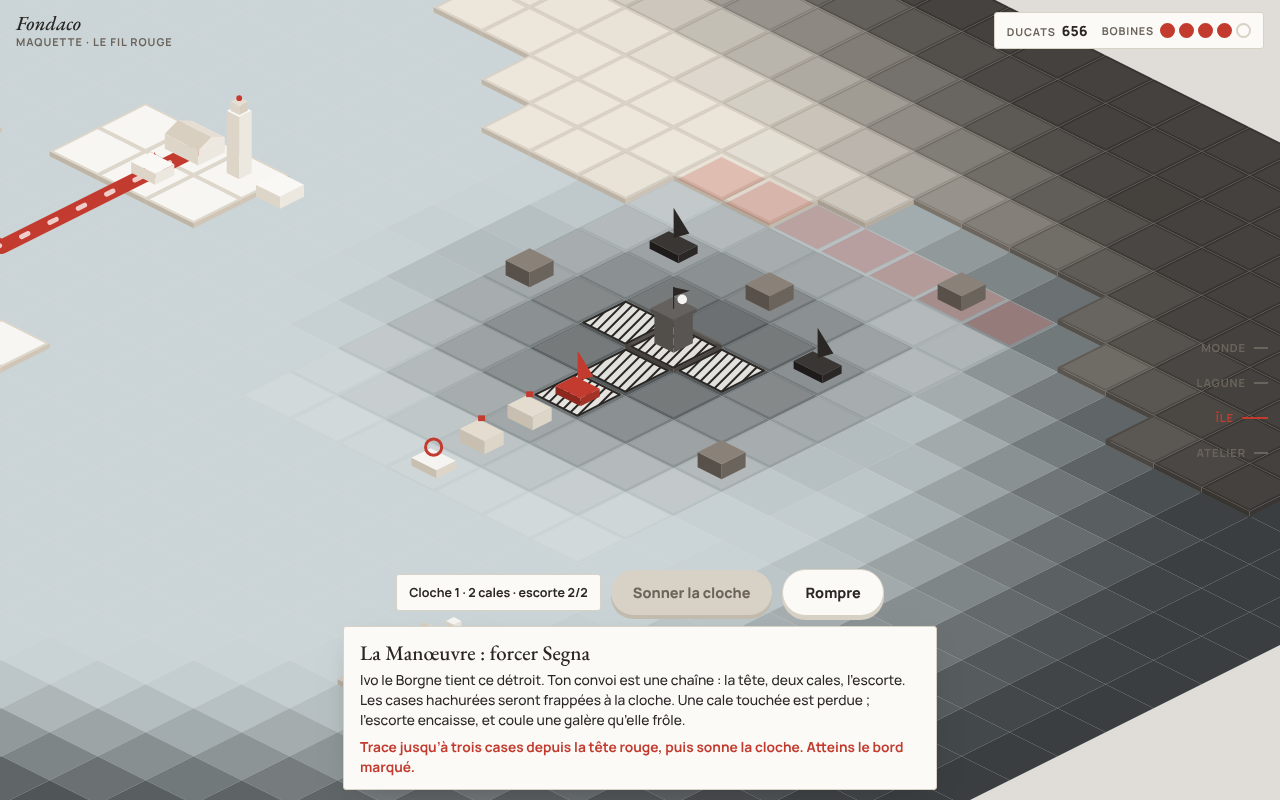
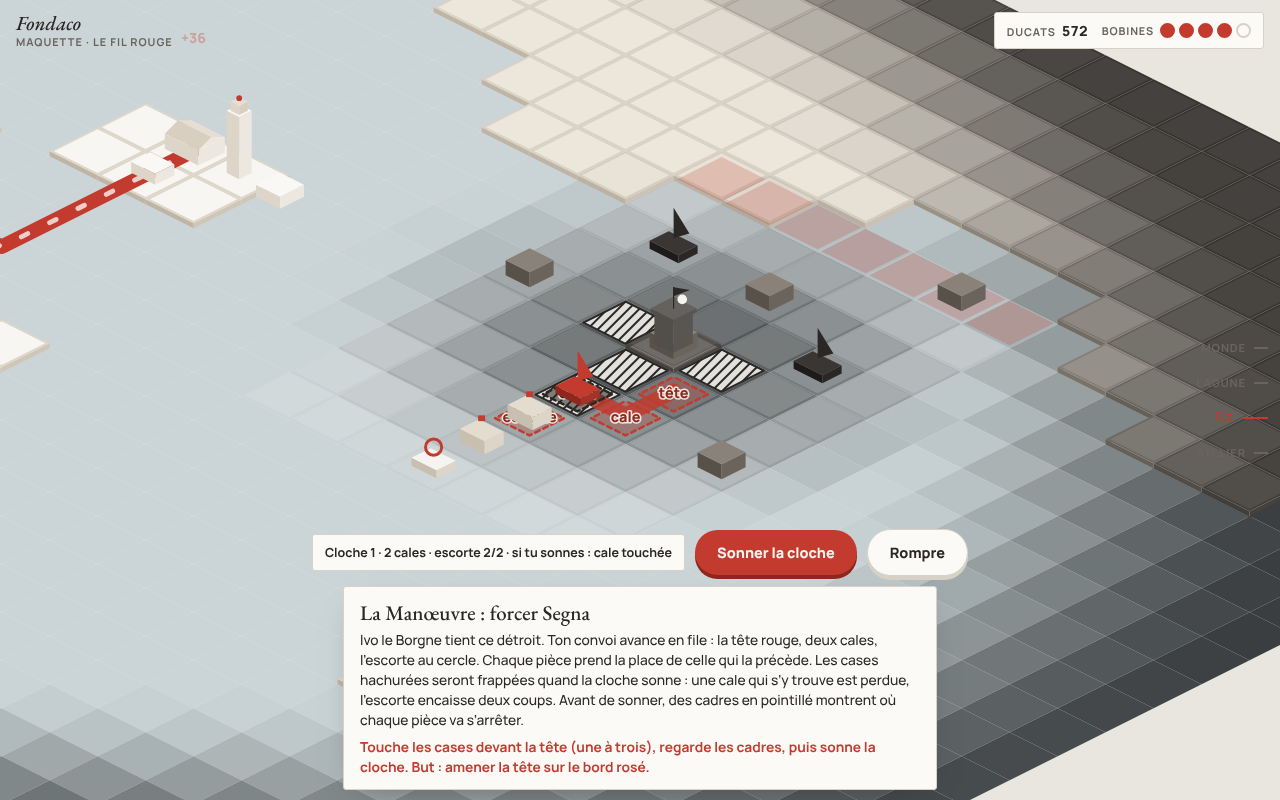
Cadrage v4 « le fil rouge » et Manœuvre plus lisible dans la maquette
Le porteur valide le principe, tuiles et bâtiments de Porcellana inchangés.
CADRAGE-v4 : règles d'or, la planche, l'île, le fil et les bobines, les
villes, les passages, la Manœuvre (déroulé, pièces, garde, armes égales),
la marée, l'économie, l'interface sans menu, le chemin, les questions.
Maquette : les cadres d'arrivée de chaque pièce et la prévision avant la
cloche. CLAUDE.md : renvoi vers le cadrage en cours de validation.

Claude-Session: https://claude.ai/code/session_01V9BC1DMhoyiSQbsad7Fm1o

Changed region(s): [[0.0, 0.0, 0.9688, 1.0], [0.375, 0.4062, 0.5625, 0.5625]]

diff --git a/docs/refonte-totale-2026-11-10/maquette.html b/docs/refonte-totale-2026-11-10/maquette.html
@@ -283,8 +283,8 @@ function startMan(pass){
   telegraph(); Object.assign(goal,{x:a+3.5,y:b+5.2,z:Math.min(vw/6.2,(vh-250)/3.6,96)}); markRuler();
   $('manbar').hidden=false; $('thread').hidden=true; manText();
   setCaption(pass.holder==='npc' ? 'La Manœuvre : forcer Segna' : 'La Manœuvre : forcer Chioggia',
-    (pass.holder==='npc' ? 'Ivo le Borgne tient ce détroit. ' : 'Ici, la garde a été disposée par un joueur, absent ce soir. C’est le même jeu. ') + 'Ton convoi est une chaîne : la tête, deux cales, l’escorte. Les cases hachurées seront frappées à la cloche. Une cale touchée est perdue ; l’escorte encaisse, et coule une galère qu’elle frôle.',
-    'Trace jusqu’à trois cases depuis la tête rouge, puis sonne la cloche. Atteins le bord marqué.');
+    (pass.holder==='npc' ? 'Ivo le Borgne tient ce détroit. ' : 'Ici, la garde a été disposée par un joueur, absent ce soir. C’est le même jeu. ') + 'Ton convoi avance en file : la tête rouge, deux cales, l’escorte au cercle. Chaque pièce prend la place de celle qui la précède. Les cases hachurées seront frappées quand la cloche sonne : une cale qui s’y trouve est perdue, l’escorte encaisse deux coups. Avant de sonner, des cadres en pointillé montrent où chaque pièce va s’arrêter.',
+    'Touche les cases devant la tête (une à trois), regarde les cadres, puis sonne la cloche. But : amener la tête sur le bord rosé.');
 }
 const mfree = (x,y) => x>=0&&y>=0&&x<GW&&y<GH && !man.rocks.has(x+','+y) && !man.gal.some(q=>q.alive&&q.x===x&&q.y===y);
 function telegraph(){
@@ -293,9 +293,13 @@ function telegraph(){
   if (man.gal[1].alive){ for(let d=-1;d<=1;d++) add(h.x+d,h.y-2); }
   man.strikes=s;
 }
+function landing(){ const L=man.path.length, old=man.pieces.map(p=>({x:p.x,y:p.y}));
+  return man.pieces.map((p,k)=>{ const q=k<L?man.path[L-1-k]:old[k-L]; return {p,q,hit:man.strikes.some(s=>s.x===q.x&&s.y===q.y)}; }); }
+const NAMES={tete:'tête',cale:'cale',escorte:'escorte'};
 function manText(){
   const c=man.pieces.filter(p=>p.t==='cale').length, e=man.pieces.find(p=>p.t==='escorte');
-  $('manstate').textContent=`Cloche ${man.round} · ${c} cale${c>1?'s':''} · escorte ${e?e.hp+'/2':'perdue'}`;
+  let f=''; if (man.phase==='plan' && man.path.length){ const h=landing().filter(o=>o.hit).map(o=>NAMES[o.p.t]); f=' · si tu sonnes : '+(h.length?h.join(' et ')+(h.length>1?' touchées':' touchée'):'rien de touché'); }
+  $('manstate').textContent=`Cloche ${man.round} · ${c} cale${c>1?'s':''} · escorte ${e?e.hp+'/2':'perdue'}`+f;
   $('bell').disabled = man.phase!=='plan' || !man.path.length;
 }
 function manTap(x,y){
@@ -462,6 +466,12 @@ function frame(t){
       g.strokeStyle='#2A2725'; g.lineWidth=2; g.beginPath(); g.moveTo(q[0][0],q[0][1]); q.slice(1).forEach(v=>g.lineTo(v[0],v[1])); g.closePath(); g.stroke(); }
     if (man.path.length){ const h=man.pieces[0]; g.beginPath(); const s0=iso(man.a+h.x+.5,man.b+h.y+.5); g.moveTo(s0[0],s0[1]); man.path.forEach(p=>{ const s=iso(man.a+p.x+.5,man.b+p.y+.5); g.lineTo(s[0],s[1]); }); g.strokeStyle=RED; g.lineWidth=cam.z*.16; g.lineJoin='round'; g.lineCap='round'; g.globalAlpha=.85; g.stroke(); g.globalAlpha=1; }
   }
+  if (man && man.phase==='plan' && man.path.length) for (const o of landing()){
+    const i=man.a+o.q.x, j=man.b+o.q.y, n=.14, q=[iso(i+n,j+n,-.06),iso(i+1-n,j+n,-.06),iso(i+1-n,j+1-n,-.06),iso(i+n,j+1-n,-.06)];
+    g.beginPath(); g.moveTo(q[0][0],q[0][1]); q.slice(1).forEach(v=>g.lineTo(v[0],v[1])); g.closePath();
+    g.fillStyle=o.hit?'rgba(42,39,37,.55)':'rgba(194,59,46,.28)'; g.fill(); g.strokeStyle=o.hit?'#2A2725':RED; g.lineWidth=2.5; g.setLineDash([5,4]); g.stroke(); g.setLineDash([]);
+    const c=iso(i+.5,j+.5,-.06), fs=Math.max(10,cam.z*.15); g.font=`800 ${fs}px Manrope,system-ui,sans-serif`; g.textAlign='center'; g.textBaseline='middle';
+    g.lineWidth=3; g.strokeStyle='rgba(246,244,240,.9)'; g.strokeText(NAMES[o.p.t]+(o.hit?' !':''),c[0],c[1]); g.fillStyle=o.hit?'#2A2725':'#8E281E'; g.fillText(NAMES[o.p.t]+(o.hit?' !':''),c[0],c[1]); }
   // threads
   for (const th of threads){ const me=th.owner==='me', age=(t-th.born)/700, bl=blocked(th);
     const upto = bl ? th.r.cum[th.r.vi] - .6 : (age<1&&me ? th.r.L*sm(age) : null);

diff --git a/docs/CADRAGE-v4.md b/docs/CADRAGE-v4.md
@@ -1,0 +1,297 @@
+# Fondaco — Document de cadrage (v4) : le fil rouge
+
+*Rédigé le 10 novembre 2026. Le porteur a validé le principe le même jour, sur la maquette (`docs/refonte-totale-2026-11-10/`, en ligne et privée : https://claude.ai/artifact/PwWx9caj5Zs9urBcChRopm) : « J'aime beaucoup le principe, à condition que les graphismes (tuiles et bâtiments) restent les mêmes qu'actuellement. […] je valide, continue le cadrage. »*
+
+*Ce cadrage est **à valider par le porteur** avant de faire foi. Validé, il remplacera la partie conception de CADRAGE-v3 ; les parties techniques (montants entiers, grand livre, moteur pur) restent. Tous les chiffres sont des **ordres de grandeur, à calibrer au simulateur** (§ 14). Les questions ouvertes sont au § 16.*
+
+## 1. Vision
+
+**Pitch.** Venise, 1450. Ta Maison a une île dans la lagune et quelques bobines de fil rouge. Tu tends tes fils vers les villes ; tes barques les suivent. Les autres Maisons visent les mêmes villes. Plus loin, la porcelaine vire à l'encre : là sont les corsaires, les détroits et les fortunes.
+
+**Ce que le jeu est.** Une seule planche partagée, un seul geste (tirer un fil), aucun mode. La gestion, l'affrontement contre le jeu et l'affrontement entre joueurs sont **des lieux de la même planche**.
+
+**Ce qui ne change pas.** Un jeu de niche à la profondeur lisible ; des adultes de 25 à 55 ans ; des sessions courtes sur téléphone, longues sur ordinateur ; un monde persistant où l'on ne perd jamais ce qu'on a bâti.
+
+## 2. Les règles d'or
+
+Elles remplacent les huit règles du 1er novembre. En cas de conflit, elles priment.
+
+1. **Une seule planche, aucun mode.** Rien ne se joue ailleurs que sur la planche. Aucun onglet n'ouvre un autre jeu.
+2. **Un seul geste : le fil.** Ce qui est rouge à l'écran, le joueur l'a tracé. Toute fonctionnalité nouvelle doit se faire avec le fil ou avec les pétales (§ 11), sinon elle n'entre pas.
+3. **Ton île t'appartient.** Personne ne prend ni ne détruit ce qui s'y trouve.
+4. **On te devance, on ne te vole pas.** Ce qui se dispute, ce sont les places de la planche commune (villes, passages). On ne risque que ce qu'on engage : une cargaison, une garde.
+5. **Tout coup est annoncé.** Dans une Manœuvre, on ne perd jamais sans avoir pu le voir venir.
+6. **À armes égales.** La force qu'on peut engager dans un passage est fixée par le passage, la même pour tous, jamais par la caisse. L'argent réel n'achète que de l'apparat.
+7. **Rien ne s'accumule sans fin.** Stocks, demande, bobines et passages tenus ont un plafond.
+8. **Court si tu veux, profond si tu restes.** Cinq minutes font une bonne visite, avec au moins une vraie décision.
+9. **Les graphismes sont ceux de Porcellana.** Les tuiles et les bâtiments restent ceux d'aujourd'hui (§ 12).
+
+## 3. La planche
+
+### 3.1 Un monde
+
+Un **monde** réunit de 60 à 120 Maisons (joueurs, et Maisons tenues par l'ordinateur pour qu'il soit toujours plein) sur une planche de cases carrées.
+
+| Zone | Matière | Contenu | Qui peut y agir |
+| --- | --- | --- | --- |
+| **La lagune** | Porcelaine blanche | L'île de chaque Maison, le Rialto, l'île de chaque compagnie | Chacun chez soi ; tout le monde se voit |
+| **Les terres disputées** | Biscuit | Une douzaine de villes ; les passages proches (bouches de lagune, ponts, cols) | Tous |
+| **Le Large** | La même porcelaine, teintée d'encre de plus en plus sombre | Six à huit ports lointains ; les passages durs (détroits) ; ce que la marée apporte | Tous, à leurs risques |
+
+**Le péril** d'une case va de 0 (blanc) à 1 (noir). Il règle la force des gardes, la valeur des marchandises et la part de cargaison risquée. Il se lit à la couleur : aucun chiffre n'est nécessaire.
+
+### 3.2 Les échelles
+
+Quatre crans de zoom, un mouvement continu : **l'atelier** (le toit s'ouvre), **l'île**, **la lagune**, **le monde**. On ne change jamais d'écran.
+
+## 4. L'île : la gestion
+
+C'est le domaine d'aujourd'hui, avec ses cases achetées une à une et ses bâtiments de porcelaine.
+
+- **Les cases** : une case a un terrain (rive, argile, forêt, pré, pierre). Une quarantaine au plus. Le prix monte à chaque achat.
+- **Les ateliers** : trois étages de chaîne (matière, ouvrage, bel ouvrage). Chaque atelier a une réserve ; pleine, il s'arrête sans rien perdre.
+- **Les voisinages** : deux ateliers d'une même chaîne côte à côte se renforcent ; certains se gênent (le four et les habitations). **Le gain d'une pose se voit avant de poser.** On peut déplacer un atelier, contre un temps de chantier.
+- **Le quai et l'entrepôt** : tout ce qui est produit y arrive, par les routes de l'île (elles restent dessinées comme aujourd'hui, et ne coûtent pas de bobine). Tous les fils en partent.
+- **La Maison** : le palais. Son niveau (une douzaine de paliers) donne les bobines, les places de convoi et les cases achetables. **Aucun chantier ne dure plus de 24 heures.**
+- **Le métier** (Arte), choisi vers le niveau 4 : verre, laine et soie, épices, bois et navires, banque. Il donne un avantage sur une chaîne et une pièce de convoi propre. Personne ne produit tout bien : c'est ce qui fait acheter aux autres.
+
+Les biens du Large (épices, soie grège, alun) entrent dans les recettes du troisième étage. **Une grande Maison a besoin du Large** ; elle peut y aller, ou acheter au Rialto à ceux qui y vont.
+
+## 5. Le fil
+
+### 5.1 La règle
+
+- Un **fil** part du quai et va à une destination : une ville, le Rialto, un port du Large, ou le quai d'une autre Maison.
+- Il a **un sens** : *vendre* (de ton entrepôt vers la destination) ou *acheter* (de la destination vers ton entrepôt).
+- Il porte **une marchandise**, choisie quand on le tend ; on en change d'un toucher.
+- Les barques (sur l'eau) et les mules (sur terre) le parcourent seules. Leur débit dépend de la longueur du fil et du niveau des barques.
+- Il s'arrête de lui-même si l'entrepôt est vide, plein, ou si la ville n'achète plus.
+
+### 5.2 Les bobines
+
+- Chaque fil prend **une bobine**. Trois au départ, une douzaine au sommet.
+- Chaque bobine a une **longueur** : les premières n'atteignent que les villes proches, les suivantes le Large.
+- Tendre un fil est gratuit et immédiat. **Le reprendre aussi.** Le coût, c'est de ne pas l'avoir ailleurs.
+
+### 5.3 Pourquoi on y revient
+
+Un fil bien placé ne le reste pas : la demande de la ville baisse à mesure qu'on la sert (§ 6), un rival arrive, un passage change de main, une nouvelle fait monter un prix. À chaque visite, la question est : **mes fils sont-ils encore au bon endroit ?**
+
+### 5.4 Le fil commun
+
+Un fil tendu vers le quai d'une autre Maison lui vend ou lui achète directement, au prix convenu entre les deux. C'est l'échange entre joueurs, sans écran de marché.
+
+## 6. Les villes et le Rialto
+
+- **Chaque ville demande deux ou trois marchandises.** Pour chacune, une jauge de demande, **commune à tout le monde**. Elle baisse à chaque livraison, de qui que ce soit, et remonte avec le temps. Le prix suit la jauge.
+- **Les fils des autres se voient** : à l'encre pour les rivaux, en céladon pour les associés. On sait qui sert quoi.
+- **Le premier fournisseur** d'une ville sur la semaine y plante son pavillon. Il gagne du renom et la primeur des nouvelles de cette ville. Pas de rendement en plus : on évite la boule de neige.
+- **Les nouvelles** déplacent la demande (une foire, une disette, un siège). Elles arrivent comme des perles sur le fil du pied (§ 11).
+- **Le Rialto** achète et vend tout, à un prix moins bon que les villes : c'est le filet de sécurité. On n'y est jamais bloqué.
+
+## 7. Les passages
+
+### 7.1 La règle
+
+- Un **passage** est une tour sur une case : une bouche de lagune, un pont, un col, un détroit. Les routes vers les villes riches et vers tous les ports du Large en traversent un ou plusieurs.
+- **Tout passage est tenu** : par un corsaire, par une puissance (Milan, Gênes, le Turc), par une Maison ou par une compagnie.
+- Celui qui le tient fixe un **péage**, plafonné (de l'ordre de 15 % de la valeur de la cargaison).
+- Devant un passage, un fil a deux états : **il paie**, ou **il est fermé** (les corsaires ne laissent passer personne tant qu'on ne les a pas forcés une fois).
+
+### 7.2 Forcer, puis tenir
+
+- **Forcer** un passage, c'est gagner une Manœuvre (§ 8) contre sa garde. On y engage un convoi et une cargaison prise dans son entrepôt.
+- **Gagné** : la cargaison passe et se vend au prix du Large ; tes fils traversent sans payer pendant 24 heures ; la tour perd **un sceau**.
+- **Perdu** : la cargaison engagée est perdue (la moitié va à celui qui tient la tour). Rien d'autre.
+- Une tour a **trois sceaux**. Ils se refont, un par jour. Au troisième sceau brisé, la tour passe à la Maison (ou à la compagnie) qui en a brisé le plus.
+- Une tour prise est à l'abri douze heures.
+
+### 7.3 Tenir
+
+- Celui qui tient une tour **dispose sa garde** (§ 8.5) et **règle son péage**. Sa garde joue sans lui.
+- Une Maison tient **deux passages au plus** ; une compagnie, davantage, à plusieurs.
+- Un passage tenu **repousse l'encre** autour de lui (§ 9).
+
+### 7.4 Pourquoi il n'y a plus de PvE ni de PvP
+
+Au début d'une marée, les passages du Large sont tous aux corsaires. Les joueurs les forcent, seuls ou à plusieurs, puis les tiennent, puis se les disputent. **C'est le même geste, la même tour, la même Manœuvre.** Seul change celui qui a disposé la garde. Un joueur qui ne veut affronter personne paie les péages et force les corsaires. Un joueur qui ne veut affronter que des joueurs vise les tours tenues.
+
+## 8. La Manœuvre
+
+### 8.1 En trois phrases
+
+Ton convoi est **une file de pièces** qui doit traverser une grille de cases. À chaque **cloche**, la garde montre où elle va frapper, tu traces le chemin de ta file, puis tout se joue d'un coup. Il faut amener la tête de l'autre côté en gardant le plus de cales possible.
+
+### 8.2 Le déroulé d'une cloche
+
+| Temps | Ce qui se passe |
+| --- | --- |
+| 1. **La garde annonce** | Les cases qui seront frappées se hachurent. |
+| 2. **Tu traces** | Depuis la tête, une à trois cases, de proche en proche. Des cadres en pointillé montrent **où chaque pièce s'arrêtera**, et lesquelles seraient touchées. |
+| 3. **Tu sonnes la cloche** | La file avance : chaque pièce prend la place de celle qui la précède. Puis les coups tombent sur les cases hachurées. Puis les pièces de la garde bougent. |
+
+**Un exemple.** La file est : tête, cale, cale, escorte. La garde vise la case de la tête.
+- Tu avances d'**une** case : la première cale vient sur la case visée. Elle est perdue.
+- Tu avances de **trois** cases : c'est l'escorte qui s'y arrête. Elle encaisse.
+- Toute la Manœuvre est là : **la queue passe où la tête était**, et il faut penser à toute la file.
+
+### 8.3 Gagner, perdre
+
+- **Gagné** : la tête atteint le bord opposé. On garde les cales encore dans la file.
+- **Perdu** : la tête est coulée (elle encaisse deux coups).
+- Cinq à sept cloches, deux minutes. Contre une garde, pas contre un chronomètre : on peut réfléchir.
+
+### 8.4 Les pièces du convoi
+
+Le convoi a de quatre à six pièces. **Leur ordre est l'équipement.** Plus de cales, c'est plus de gain et une file plus longue à protéger.
+
+| Pièce | Ce qu'elle fait |
+| --- | --- |
+| **La tête** | Elle mène. Deux coups la coulent. |
+| **La cale** | Elle porte la cargaison. Un coup la perd. |
+| **L'escorte** | Elle encaisse deux coups. Elle coule une galère qu'elle frôle. |
+| **Les arbalétriers** | Ils frappent la première pièce de garde dans leur ligne, à deux cases. |
+| **Les rameurs** | Une fois par Manœuvre, quatre cases au lieu de trois. |
+| **Le charpentier** | Il répare d'un coup la pièce placée devant lui. |
+| **Le brûlot** | Touché, il emporte les pièces de garde voisines. |
+| **Le fanal** | Il montre une cloche d'avance les coups cachés. |
+
+Les pièces se gagnent (au Large surtout), se montent de niveau et se rangent dans l'ordre qu'on veut avant de partir. La pièce du métier de la Maison s'y ajoute.
+
+### 8.5 Les pièces de la garde
+
+| Pièce | Ce qu'elle fait |
+| --- | --- |
+| **L'écueil** | Il barre une case. |
+| **La galère d'archers** | Elle vise la case de la tête et celle d'après ; elle approche d'une case par cloche. |
+| **La bombarde** | Elle vise une ligne de trois cases, deux rangs devant la tête. Elle ne bouge pas. |
+| **La chaîne du port** | Elle ferme une ligne une cloche sur deux. |
+| **L'embuscade** | Une pièce cachée, qui se montre à la deuxième cloche. |
+| **Le capitaine** | Chez les corsaires : une pièce à deux motifs qui alternent, et un nom. |
+
+**À armes égales.** Chaque passage a un niveau. Il fixe le **budget de la garde** et le **budget du convoi**, les mêmes pour tous. Une Maison riche n'y met pas plus de pièces qu'une autre : elle a seulement plus de choix.
+
+### 8.6 Ce qui en fait un jeu
+
+- **Contre le jeu**, c'est un casse-tête à information complète.
+- **Contre un joueur**, sa garde suit la disposition qu'il a préparée ; l'embuscade ajoute une part de lecture. Il n'a pas besoin d'être là, et il n'y a aucun problème de réseau.
+- **Tout est déterministe** : une Manœuvre se rejoue, se partage, se teste au simulateur.
+- **À deux** : deux convois d'une même compagnie sur une grille plus large.
+
+*C'est la pièce la plus neuve du jeu, et la moins sûre. Elle est la première chose à prototyper et à faire jouer (§ 14, étape 1).*
+
+## 9. La marée d'encre
+
+- Une **marée** dure six semaines.
+- **Elle monte** : le péril du Large s'étend vers l'intérieur. Aux dernières semaines, les puissances reprennent les passages mal gardés.
+- **Les passages tenus par des joueurs la repoussent** : la planche redevient blanche autour d'eux.
+- **À la fin** : le renom gagné est compté, le Large est redistribué (nouveaux ports, nouveaux passages, tous aux corsaires), et les Maisons sont regroupées en mondes de leur niveau. Les compagnies restent ensemble.
+- **Ce qui ne bouge jamais** : ton île, ta Maison, tes bobines, tes pièces, ton renom acquis.
+
+La marée donne au monde un début, une tension et une fin, et à chacun un départ à égalité au Large, sans rien retirer à personne.
+
+## 10. Ce qui grandit, et l'économie
+
+### 10.1 Quatre choses
+
+| Axe | De | À |
+| --- | --- | --- |
+| **L'île** | 4 cases, 2 ateliers | 40 cases, trois étages de chaîne |
+| **Les bobines** | 3, courtes | 12, jusqu'au bout du Large |
+| **Le convoi** | Tête, cale, escorte | 6 places, une vingtaine de pièces à choisir |
+| **Le renom** | — | Pavillons, passages tenus, marées traversées ; il ouvre les titres et l'apparat |
+
+### 10.2 Deux monnaies
+
+- Les **ducats** : ils s'échangent, ils bâtissent.
+- Le **renom** : il ne s'échange pas ; il apparie les Maisons de même niveau.
+
+### 10.3 Sources et puits
+
+| D'où viennent les ducats | Part visée | Où ils partent | Part visée |
+| --- | --- | --- | --- |
+| Les fils vers les villes | ≈ 60 % | Bâtir et élever l'île | ≈ 55 % |
+| Les cargaisons vendues au Large | ≈ 25 % | Les pièces de convoi et de garde | ≈ 20 % |
+| Les péages et les prises | ≈ 10 % | Les péages payés | ≈ 10 % |
+| Le Rialto | ≈ 5 % | L'entretien des passages tenus | ≈ 10 % |
+
+Les ducats qui passent d'un joueur à l'autre (péages, prises, fils communs) passent par le grand livre et sont plafonnés par compte.
+
+### 10.4 Le modèle économique
+
+Bêta sans rien à vendre. Ensuite : de l'apparat seulement (pavillons, livrées, façades). Jamais de bobine, de pièce, de sceau ni de temps de chantier.
+
+## 11. L'interface
+
+**Il n'y a pas de menu.** Quatre éléments, et rien d'autre :
+
+| Élément | Ce que c'est |
+| --- | --- |
+| **La planche** | Tout le jeu. |
+| **Les pétales** | Toucher un objet fait paraître autour de lui ses deux ou trois gestes. Un seul est rouge. Un court cartouche de papier, sous l'objet, dit l'essentiel. |
+| **L'échelle** | Quatre crans sur le bord : Atelier, Île, Lagune, Monde. |
+| **Le fil des nouvelles** | Au pied de l'écran, un fil rouge et ses perles : une par chose qui t'attend (une ville saturée, un passage repris, un atelier plein, une nouvelle). Toucher une perle y emmène la caméra. Il remplace les notifications, les objectifs et le guide. |
+
+En haut, deux nombres : les ducats et les bobines libres.
+
+**Les anciens écrans deviennent des lieux.** La Maison (profil, famille, renom), l'île de la compagnie, le Rialto, le palais du Doge (classements). On y va en les touchant sur la planche.
+
+**Chaque geste glissé a son équivalent au toucher** (« Tirer un fil jusqu'ici » dans les pétales), pour le clavier, les lecteurs d'écran et les petits écrans.
+
+**Les tutoriels guidés** restent la règle (décision du 8 novembre) : un projecteur, un geste à la fois. Le premier apprend à tirer un fil ; le deuxième, la Manœuvre, cloche par cloche.
+
+## 12. La direction artistique
+
+**Condition du porteur : les tuiles et les bâtiments restent ceux d'aujourd'hui.** Porcellana fait foi, sans changement, pour les cases, les bâtiments, les matières, la lumière, la caméra et les animations d'arrivée (`docs/plan-porcellana.md`, kit `apps/web/src/porcellana/`). La maquette en deux dimensions montre un principe, pas un rendu.
+
+Ce qui s'ajoute, dans la même grammaire :
+
+| Ajout | Comment |
+| --- | --- |
+| **L'encre** | Les mêmes cases et les mêmes bâtiments, dont la teinte glisse du blanc vers l'encre `#2A2725` selon le péril. Aucun modèle nouveau. |
+| **Le fil** | Le ruban d'accent à chevrons qui existe déjà pour les routes. |
+| **Les fils des autres** | Le même ruban, fin : à l'encre pour les rivaux, en céladon pour les associés. Le céladon est la seule teinte ajoutée. |
+| **Les passages** | Une tour dans le kit, à la manière du fort de la Terraferme, avec le pavillon de celui qui la tient. |
+| **Les pièces de la Manœuvre** | Les figurines existantes (véhicules, galères) sur leur socle de couleur. |
+| **Les pétales, l'échelle, le fil des nouvelles** | Porcelaine, papier, encre et le rouge pour la seule action mise en avant. |
+
+## 13. Ce qui est retiré
+
+Les quatre onglets, les docks et les fiches en feuille ; les livraisons une à une, la Remise et les modules de véhicule ; la Porta, Rome, les reliques, l'antiquaire ; la Terraferme, la Bataille, la Contesa, le Campo ; le Carnet, les ères ; la Faveur, les Sceaux, la Gloire, la Puissance ; les chantiers de plusieurs jours ; les plateaux en hexagones.
+
+Ce qui en reste : le rendu, les modèles, le moteur de base (montants, grand livre, stocks, production à la lecture), le simulateur, la manière de travailler.
+
+## 14. Le chemin
+
+Une étape à la fois, chacune avec son plan validé, ses tests d'abord pour le moteur, et le simulateur pour tout équilibrage.
+
+| # | Étape | Ce qu'elle livre | Réussie quand |
+| --- | --- | --- | --- |
+| 1 | **La Manœuvre, en prototype** | Le moteur pur de la Manœuvre, des robots qui la jouent, un laboratoire jouable dans le rendu de Porcellana, vingt passages de test | Le porteur et quelques testeurs en redemandent après vingt parties ; les robots mesurent qu'aucune garde n'est imbattable ni gratuite |
+| 2 | **La planche et les fils, au simulateur** | Un monde de 100 Maisons robots sur six semaines : fils, demande commune, passages, marée | Les fils bougent (une raison de retendre à chaque visite) ; aucune stratégie unique ne domine ; l'économie tient sur quatre marées |
+| 3 | **L'île** | Le domaine actuel porté sur la planche commune : terrains, voisinages vus avant la pose, quai | Deux îles de même niveau diffèrent |
+| 4 | **Les fils et les villes, à l'écran** | Tirer, reprendre, le sens et la marchandise ; les jauges ; les fils des autres | Une visite de cinq minutes contient une vraie décision |
+| 5 | **Les passages** | Payer, forcer, tenir ; disposer sa garde ; les sceaux | Un passage change de main sans que personne ne soit lésé hors de sa mise |
+| 6 | **L'interface sans menu** | Pétales, échelle, fil des nouvelles, lieux ; les tutoriels | Un nouveau joueur tend son premier fil en moins d'une minute, sans texte d'aide |
+| 7 | **La marée et les mondes** | La montée, la fin, le regroupement par niveau | Une marée entière jouée en test |
+| 8 | **Les compagnies** | Passages tenus à plusieurs, Manœuvre à deux, fil commun | — |
+| 9 | **Bêta** | Retest par les profils de l'audit du 7 novembre | Moyenne d'au moins 7,5 sur 10 |
+
+Les plans en cours (publication, Terraferme, Porta, ateliers) sont **gelés** dès la validation de ce cadrage, sauf correctifs.
+
+## 15. La technique
+
+Ce qui reste non négociable : montants en entiers et taux en points de base ; tout mouvement de monnaie par le grand livre, tout mouvement de stock par les mouvements de stock ; `world_id` sur toute table du monde ; la logique dans `packages/engine`, pure et testée ; les réglages dans `worlds.settings` ; la production calculée à la lecture.
+
+Ce qui est neuf : la demande d'une ville est partagée, donc toute livraison est une transaction sérialisée par (monde, ville, marchandise), comme les opérations de marché aujourd'hui. Une Manœuvre est une suite de coups rejouable : le serveur la valide en la rejouant.
+
+## 16. Les questions ouvertes
+
+1. **La taille d'un monde** : 60 à 120 Maisons, robots compris. À fixer à l'étape 2.
+2. **L'intérieur des ateliers** (décision du 6 novembre) : gardé tel quel au cran « Atelier », réservé au métier de la Maison, ou retiré ? *Proposé : réservé au métier.*
+3. **Les prises** : la moitié de la cargaison perdue va à celui qui tient la tour. Est-ce encore « on ne te vole pas » ? *Proposé : oui, puisque l'attaquant a choisi de l'engager.*
+4. **Le nombre de passages tenus** par Maison : deux. À mesurer.
+5. **La famille et le personnel** : absents de ce cadrage. *Proposé : y revenir après l'étape 5, comme capitaines de convoi et gardiens de tour.*
+6. **L'histoire** (Milan, le Turc, 1453) : portée par les puissances qui tiennent les passages et par la marée. Faut-il des marées à thème ? *Proposé : oui, après la bêta.*
+7. **Les joueurs actuels** : y a-t-il des Maisons en production à reprendre sur la nouvelle planche (la bascule `EMPIRE_FROM` dépend du porteur) ? Si oui, que garde-t-on : l'île et ses ateliers, au minimum.
+8. **Le nom des choses** : fil, bobine, passage, Manœuvre, cloche, marée, pétales. À confirmer avant d'écrire les textes.

diff --git a/CLAUDE.md b/CLAUDE.md
@@ -32,6 +32,7 @@ Elles font foi pour toute mécanique, toute fonctionnalité et tout mode de jeu 
 8. **Tout se voit.** Toute fonctionnalité, tout mode de jeu est d'abord visuel : sur la carte, par des objets qu'on touche, des mouvements et des animations. Ni tableur ni jeu de texte : un chiffre ou une liste accompagnent l'image, jamais ne la remplacent.
 
 ## Façon de travailler
+- **La refonte totale « le fil rouge »** (10 novembre 2026, principe validé par le porteur sur maquette, à condition que les tuiles et les bâtiments de Porcellana restent tels quels) : une seule planche sans modes ni onglets, un seul geste (tirer un fil), le PvE et le PvP fondus dans les passages et la Manœuvre, la marée d'encre. Cadrage en cours de validation : docs/CADRAGE-v4.md ; critique et maquette : docs/refonte-totale-2026-11-10/. Tant que le porteur n'a pas validé ce cadrage, CADRAGE-v3 et les règles ci-dessus restent la référence du code existant ; aucun lot nouveau des plans antérieurs ne se lance sans lui demander.
 - **Le plan de publication** (7 novembre 2026, validé par le porteur, issu de l'audit des joueurs `docs/audit-joueurs-2026-11-07/`) : décisions D1 à D12 (glossaire et « tu », règle 3 réécrite, bêta sans perle, Porcellana seule…) et lots 0 à 7 dans docs/plan-publication.md ; il prime sur les plans antérieurs en cas de conflit.
 - **Les tutoriels guidés** (8 novembre 2026, décision du porteur) : jusqu'au Fondaco niveau 2, le jeu guide geste par geste sous un projecteur (le reste voilé, rien d'autre à toucher, aucun « Passer » sauf au profil) ; un tutoriel court à la première ouverture de chaque nouveau lieu (Porta, Remise, intérieur des ateliers, Terraferme). Tout nouveau lieu ou geste du début reçoit le sien. Plan et état : docs/plan-tutoriels.md ; code : `apps/web/src/empire/tutor/`.
 - Chaque système absorbe les anciens au lieu de s'y ajouter : une douzaine de systèmes visibles, pas trente.
